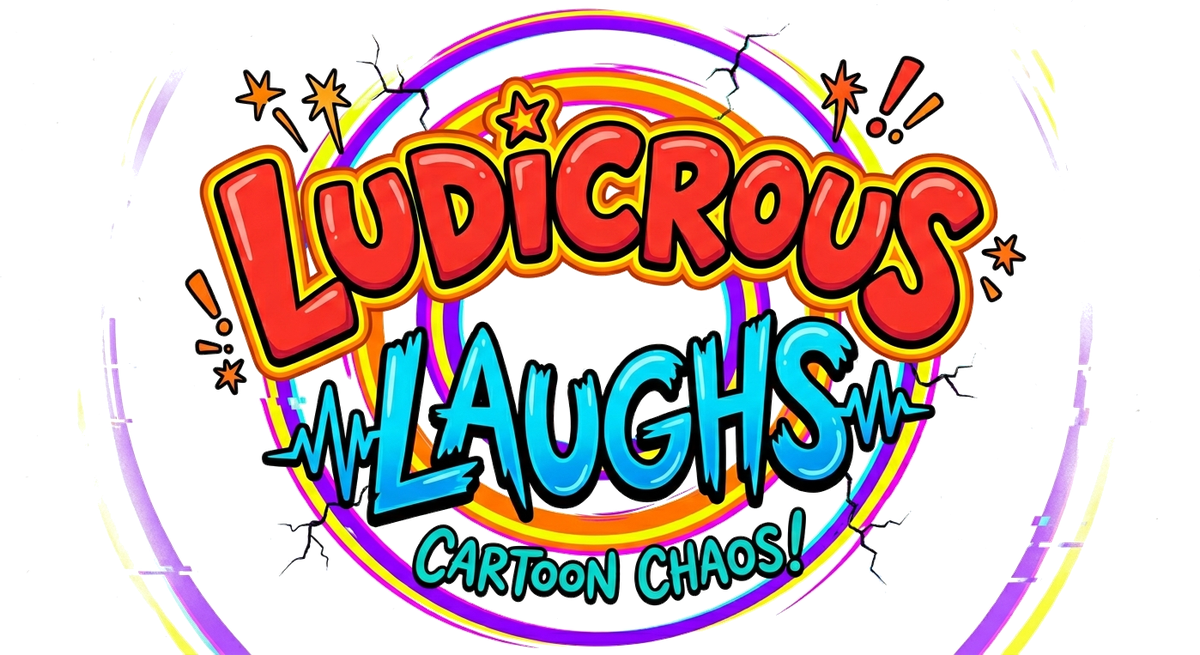
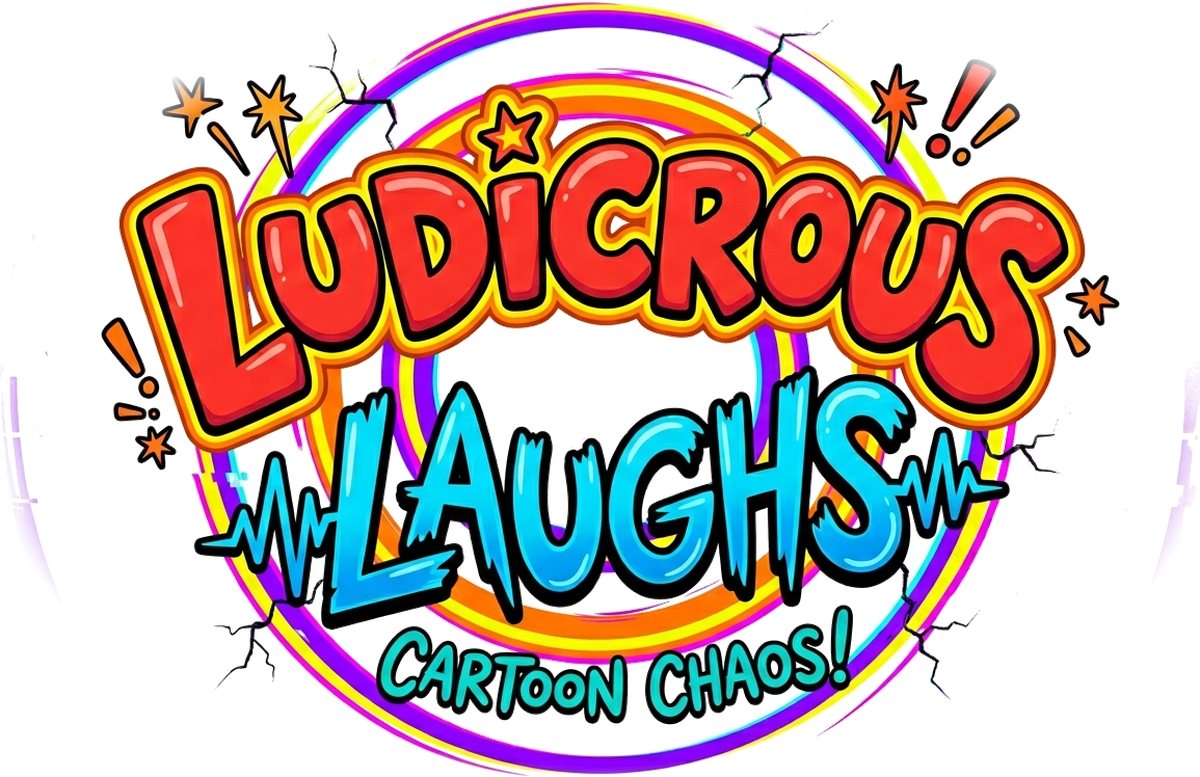
Franchises: soften the Ludicrous Laughs outer rings so nothing is cut off
Claude-Session: https://claude.ai/code/session_01GbLv569HXQoWimrwgZ1ULW

diff --git a/src/lib/site.ts b/src/lib/site.ts
@@ -32,7 +32,7 @@ export const PAYMENT_METHODS = ["Visa", "Mastercard", "American Express", "Apple
 export const FRANCHISE_LOGOS: Record<string, { src: string; width: number; height: number; /** Dark artwork: gets a soft light glow so it reads on dark tiles. */ glow?: boolean }> = {
   knightverge: { src: "/franchise/knightverge.png", width: 1200, height: 268 },
   "occult-inc": { src: "/franchise/occult-inc.png", width: 1200, height: 439 },
-  "ludicrous-laughs": { src: "/franchise/ludicrous-laughs.png", width: 1200, height: 655 },
+  "ludicrous-laughs": { src: "/franchise/ludicrous-laughs.png", width: 1200, height: 777 },
   shadeveil: { src: "/franchise/shadeveil.png", width: 1200, height: 440, glow: true },
 };
 
